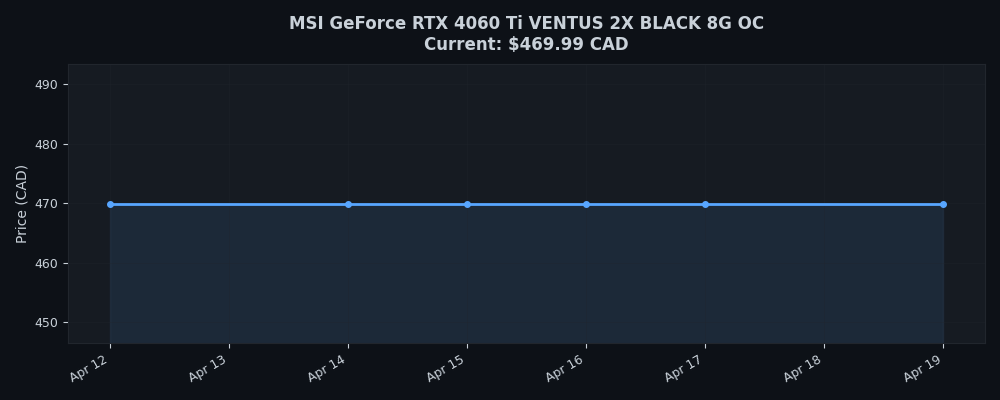
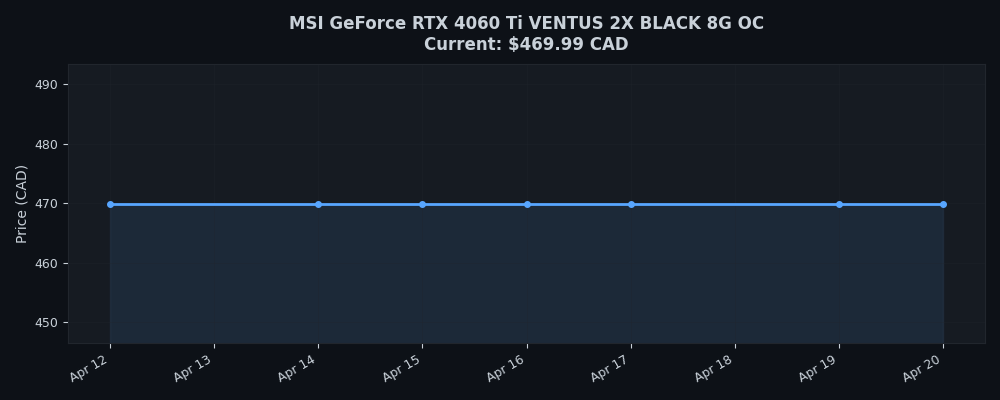
Update prices 2026-04-20 08:00

diff --git a/README.md b/README.md
@@ -1,6 +1,6 @@
 # Price Tracker
 
-Last updated: 2026-04-19 20:00
+Last updated: 2026-04-20 08:00
 
 ## Current Prices
 
